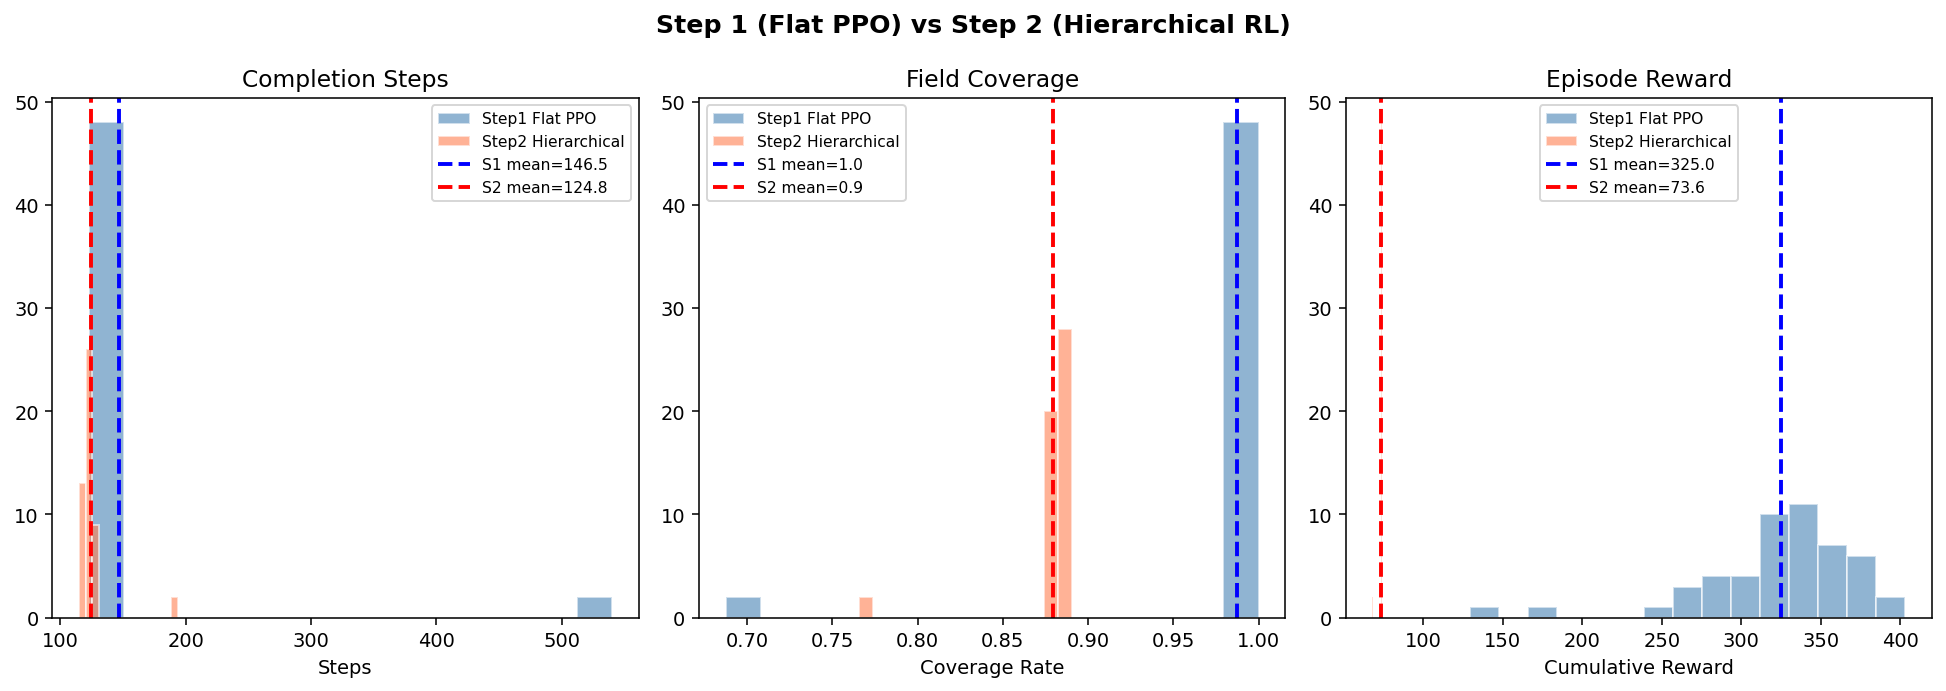
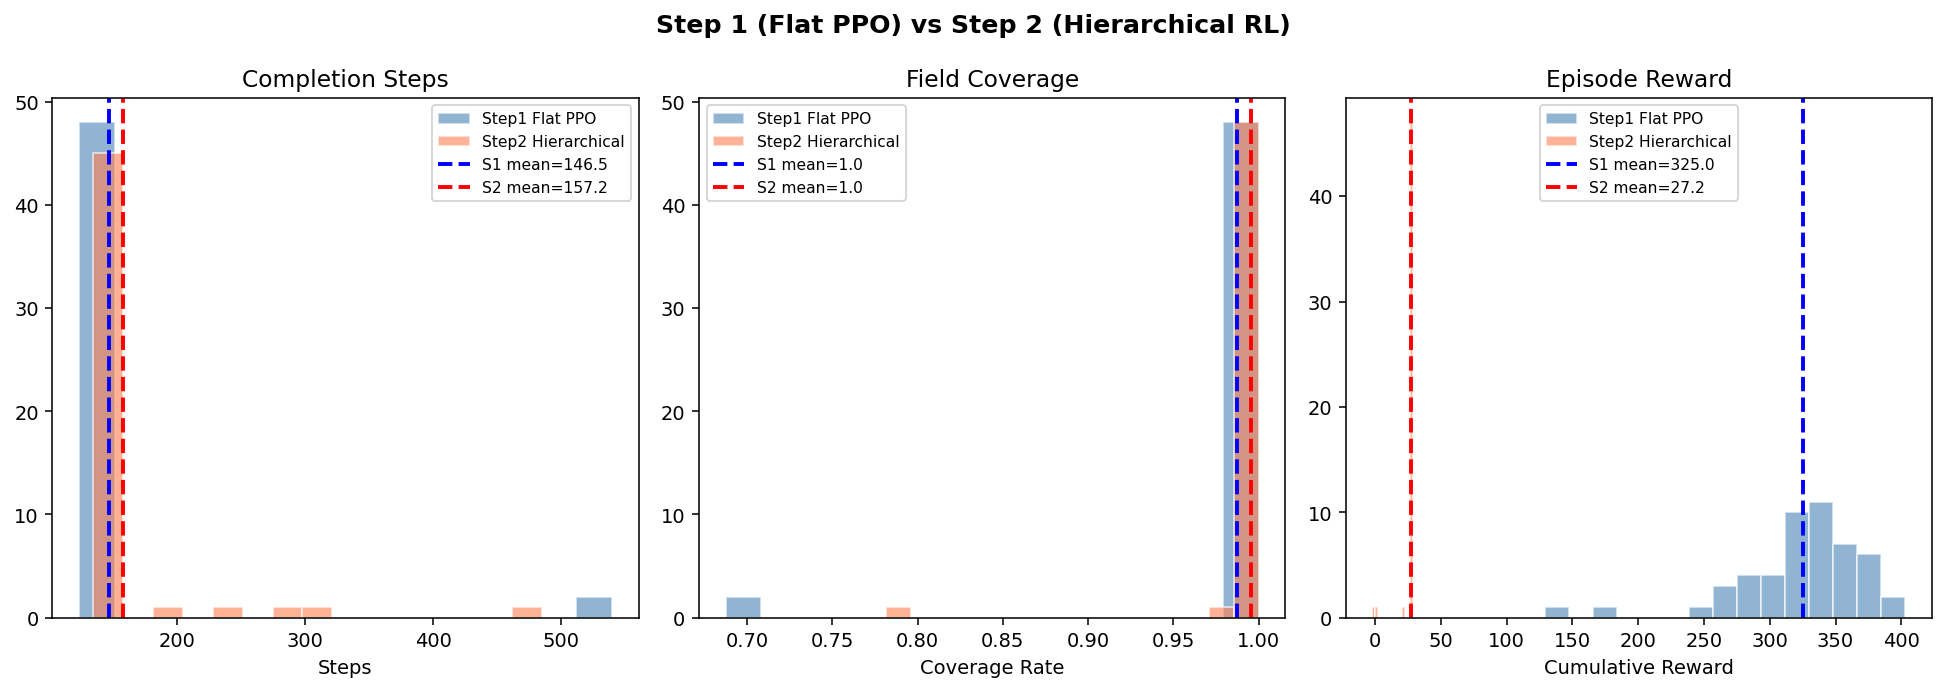
완료 레인 재방문 보상 오류 수정 및 재학습

diff --git a/env/hierarchical/high_level_env.py b/env/hierarchical/high_level_env.py
@@ -56,8 +56,17 @@ class HighLevelFarmEnv(gym.Env):
                 obs[i] = done / len(crops)
         return obs
 
+    def _is_lane_already_done(self, lane_col: int) -> bool:
+        """True if all crops adjacent to lane_col are already in DONE_STATES."""
+        crops = self.inner._adjacent_lane_crops(lane_col)
+        return bool(crops) and all(
+            self.inner.crop_states[r, c] in DONE_STATES for (r, c) in crops
+        )
+
     def step(self, action: int):
         target_col = self.lane_cols[action]
+        was_already_done = self._is_lane_already_done(target_col)
+
         self.inner.target_lane_col = target_col
         self.inner.step_count = 0
 
@@ -78,7 +87,8 @@ class HighLevelFarmEnv(gym.Env):
         self._lane_visits += 1
 
         hl_reward = -total_steps * HL_STEP_COST
-        if lane_done:
+        # Only reward for newly completed lane (not revisiting an already-done lane)
+        if lane_done and not was_already_done:
             hl_reward += REWARD_HL_LANE_DONE
 
         all_done = self.inner._is_complete()